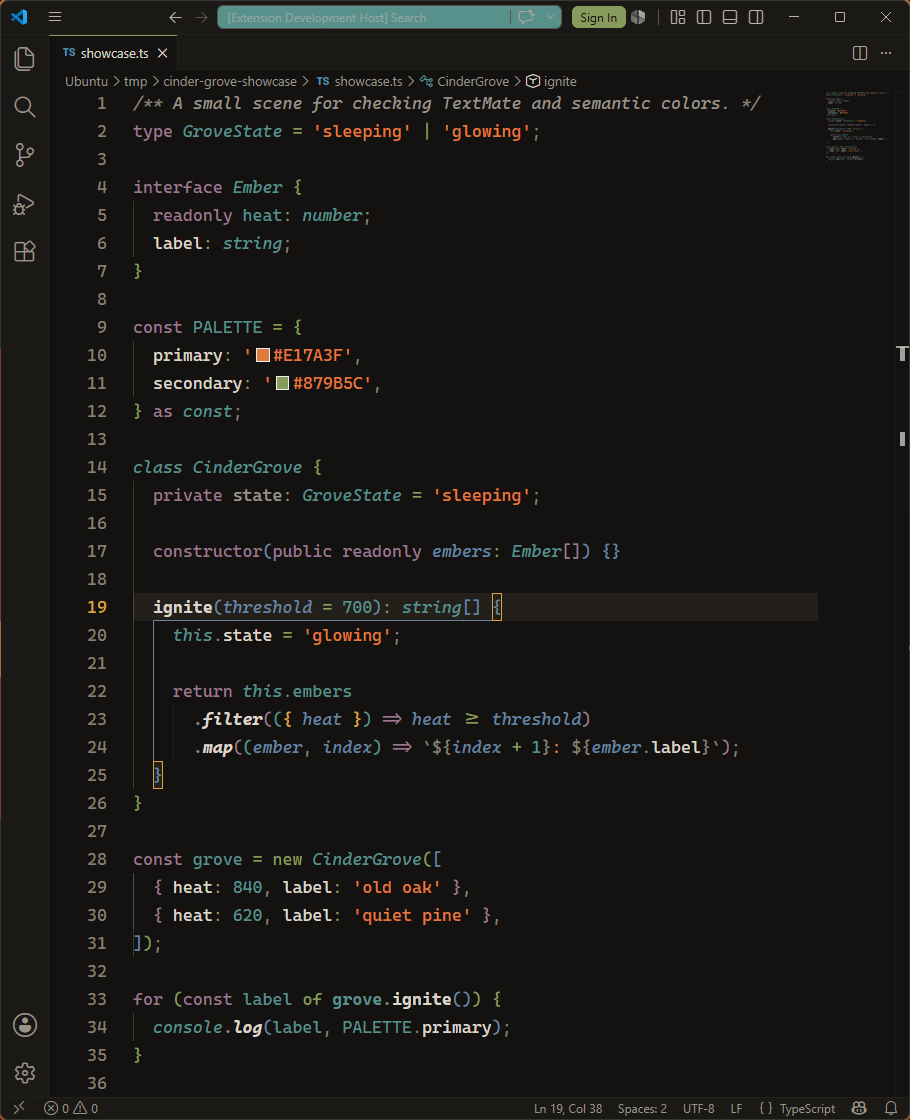
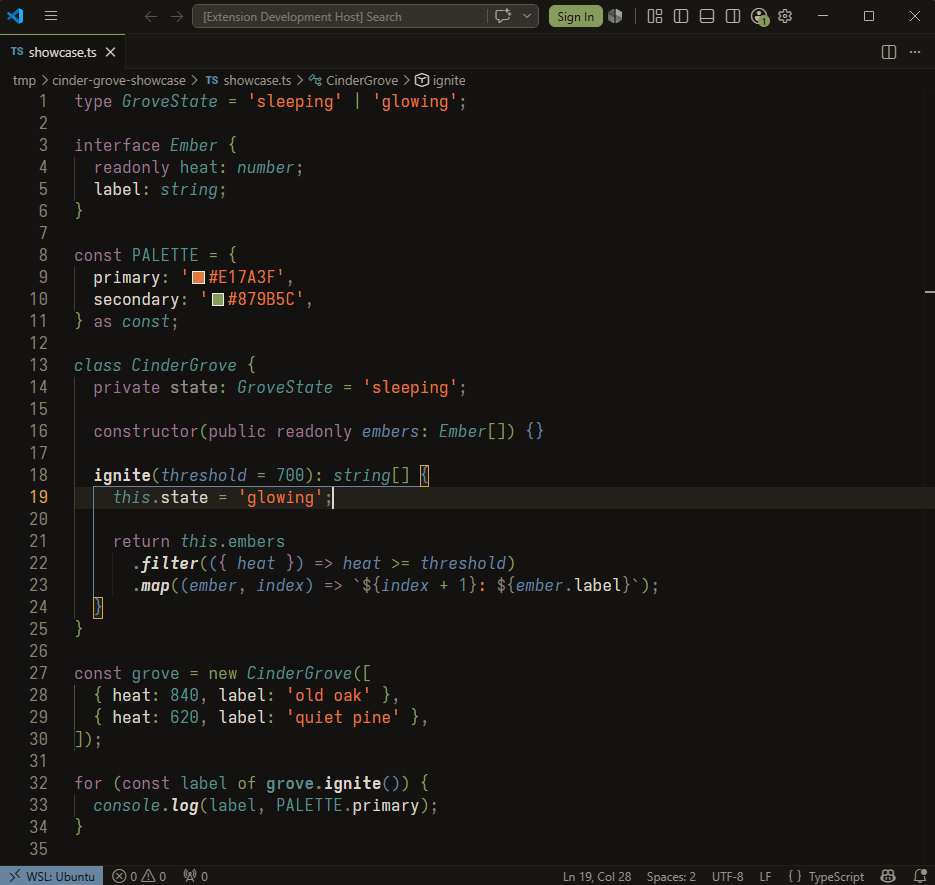
update screenshot and fix URLs

diff --git a/README.md b/README.md
@@ -66,7 +66,7 @@ Press `F5` in Visual Studio Code to open an Extension Development Host for live 
 ## Related
 
 - [Cinder Grove for Neovim](https://codeberg.org/aileks/cinder-grove.nvim)
-- [Issues and support](https://codeberg.org/aileks/cinder-grove-vscode/issues)
+- [Issues and support](https://codeberg.org/aileks/cinder-grove/issues)
 
 ## License
 

diff --git a/SUPPORT.md b/SUPPORT.md
@@ -1,5 +1,5 @@
 # Support
 
-Report problems through the [Codeberg issue tracker](https://codeberg.org/aileks/cinder-grove-vscode/issues).
+Report problems through the [Codeberg issue tracker](https://codeberg.org/aileks/cinder-grove/issues).
 
 Include your Visual Studio Code version, language, relevant extensions, and a screenshot when reporting color or syntax issues.